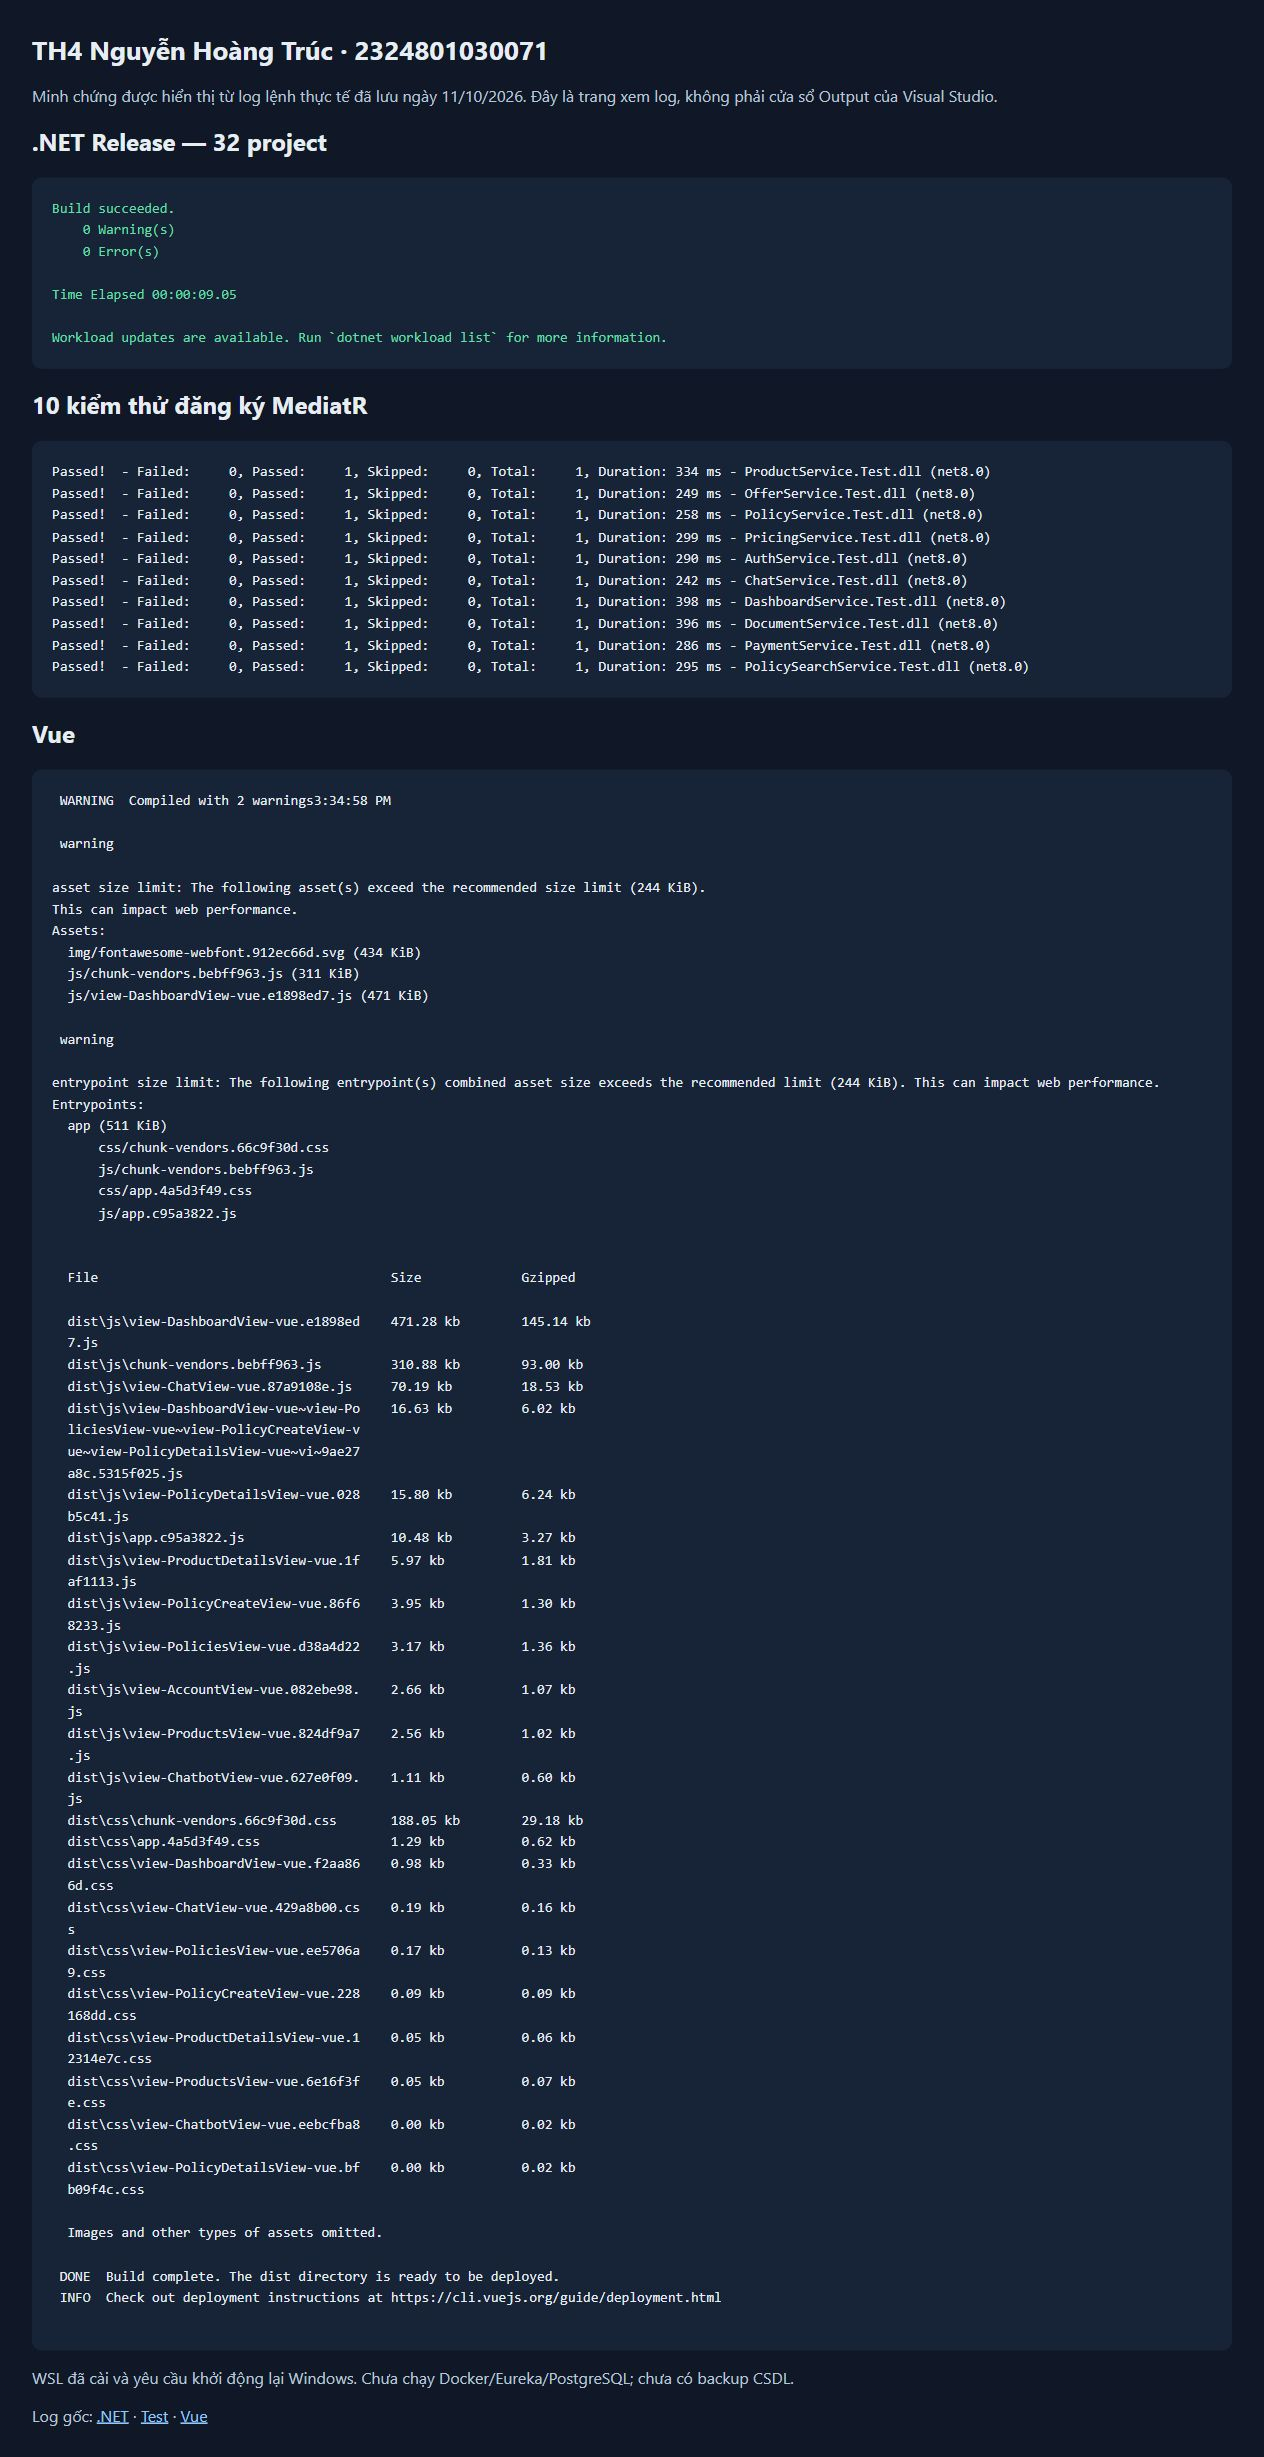
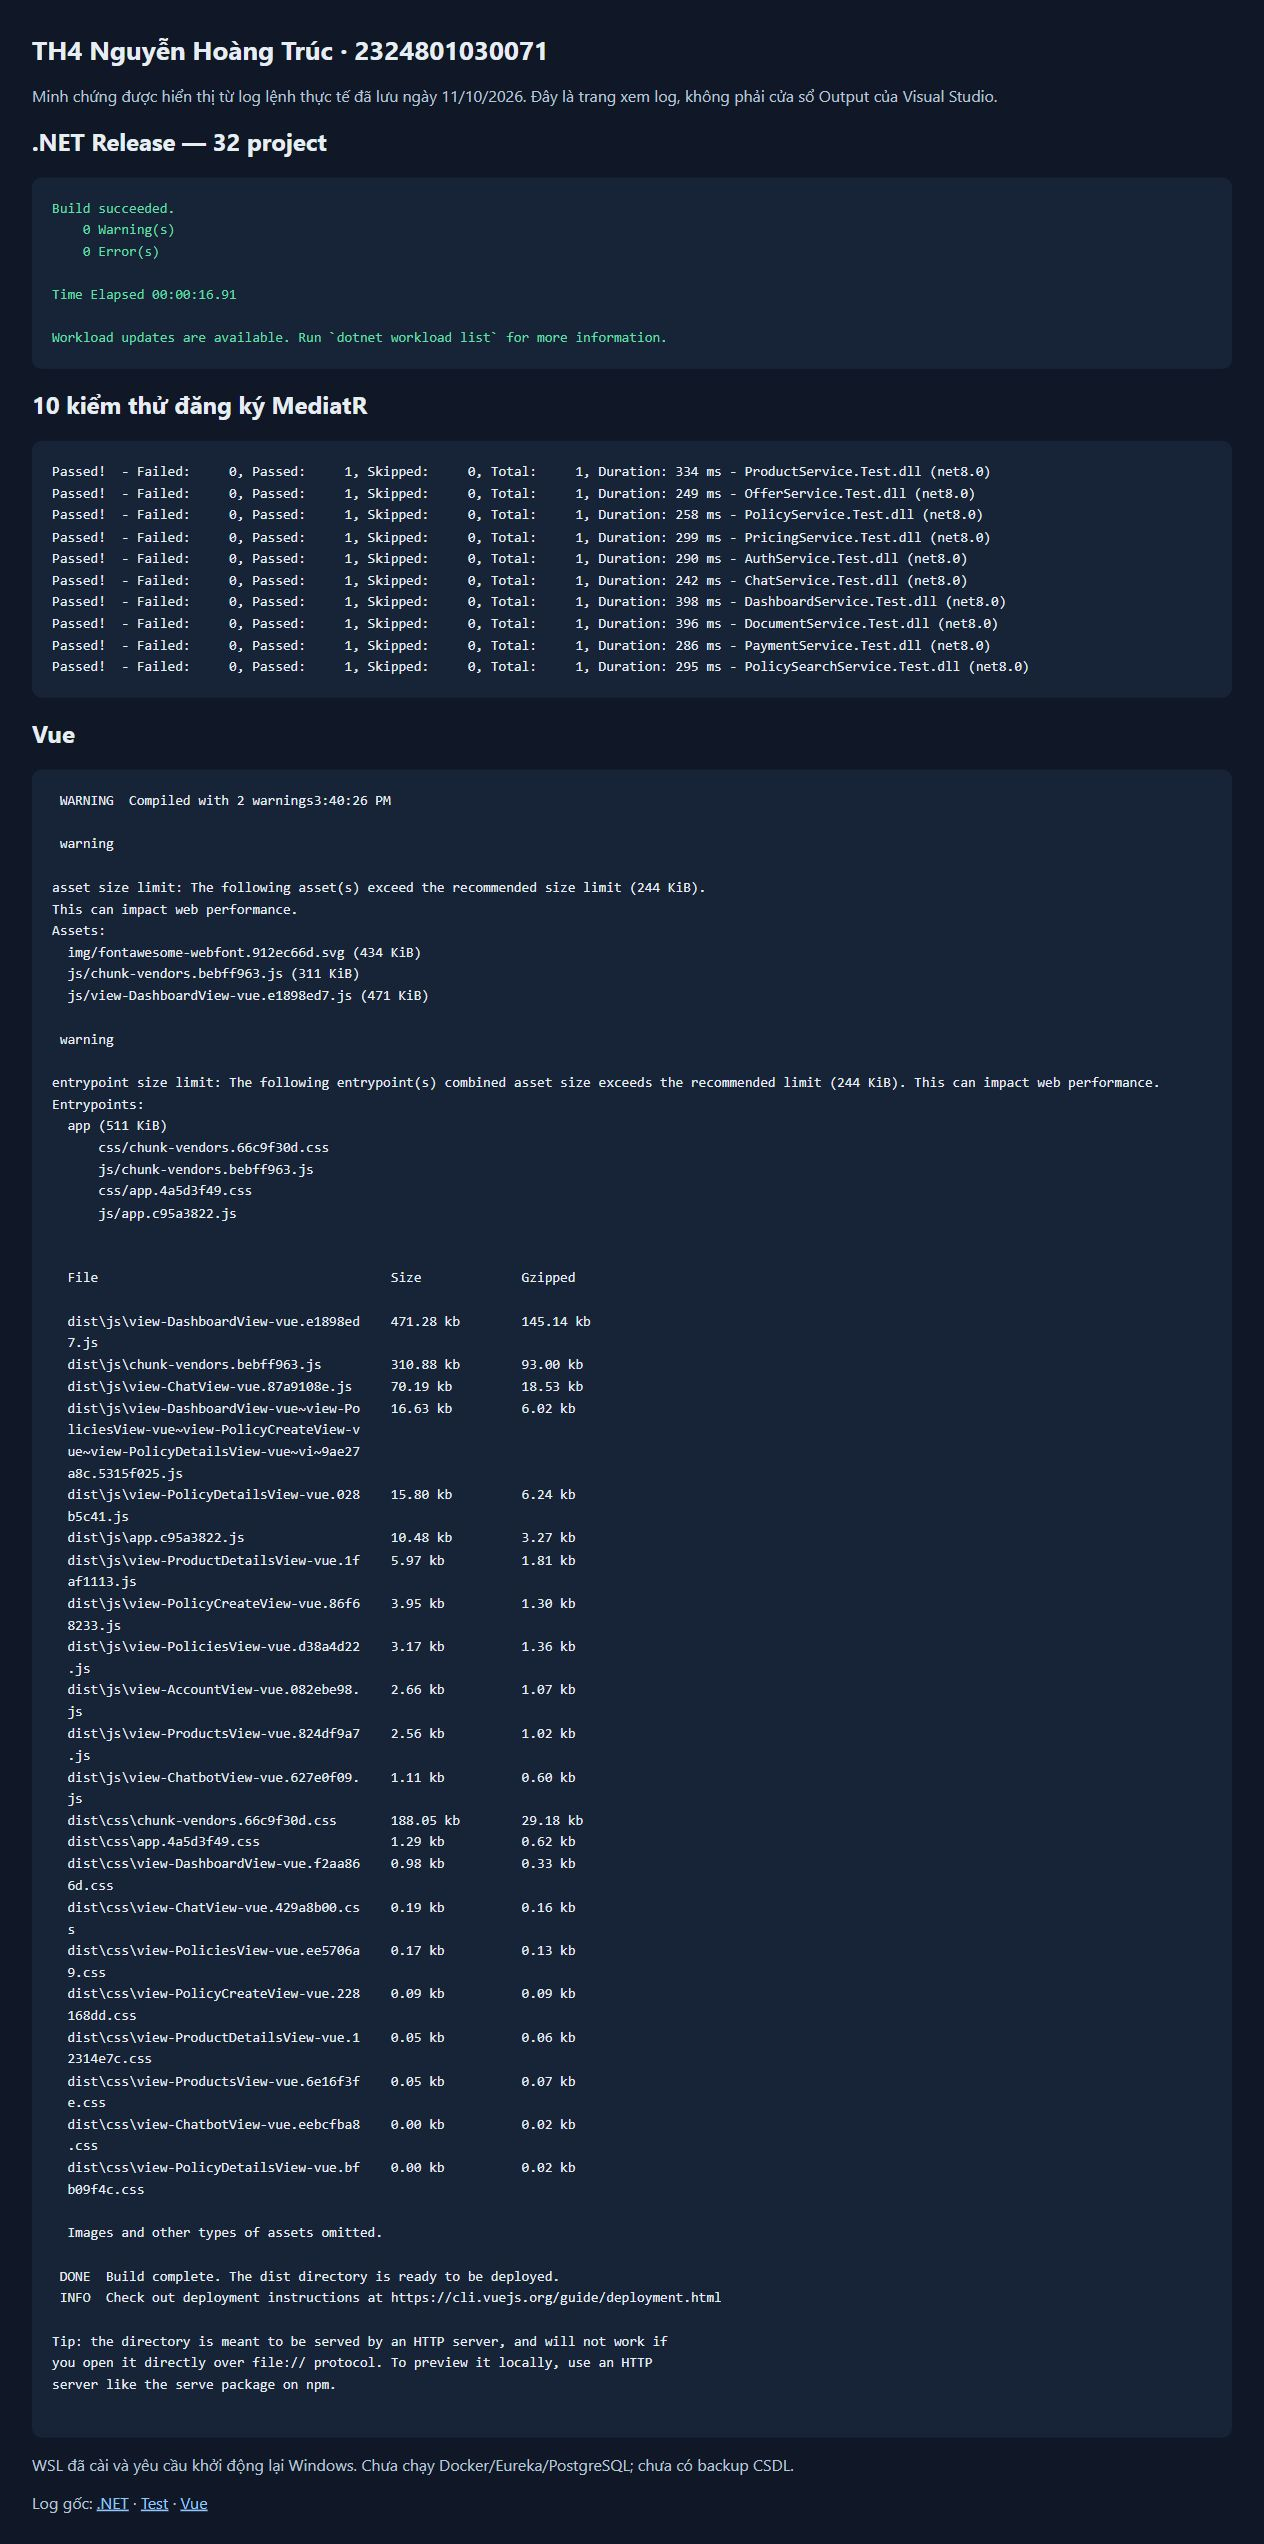
Cập nhật cấu hình TH4

diff --git a/artifacts/build-report.html b/artifacts/build-report.html
@@ -6,7 +6,7 @@
     0 Warning(s)
     0 Error(s)
 
-Time Elapsed 00:00:09.05
+Time Elapsed 00:00:16.91
 
 Workload updates are available. Run `dotnet workload list` for more information.
 </pre>
@@ -20,7 +20,7 @@ Passed!  - Failed:     0, Passed:     1, Skipped:     0, Total:     1, Duration:
 Passed!  - Failed:     0, Passed:     1, Skipped:     0, Total:     1, Duration: 396 ms - DocumentService.Test.dll (net8.0)
 Passed!  - Failed:     0, Passed:     1, Skipped:     0, Total:     1, Duration: 286 ms - PaymentService.Test.dll (net8.0)
 Passed!  - Failed:     0, Passed:     1, Skipped:     0, Total:     1, Duration: 295 ms - PolicySearchService.Test.dll (net8.0)</pre>
-<h2>Vue</h2><pre> WARNING  Compiled with 2 warnings3:34:58 PM
+<h2>Vue</h2><pre> WARNING  Compiled with 2 warnings3:40:26 PM
 
  warning  
 
@@ -91,6 +91,10 @@ Entrypoints:
  DONE  Build complete. The dist directory is ready to be deployed.
  INFO  Check out deployment instructions at https://cli.vuejs.org/guide/deployment.html
       
+Tip: the directory is meant to be served by an HTTP server, and will not work if
+you open it directly over file:// protocol. To preview it locally, use an HTTP
+server like the serve package on npm.
+
 </pre>
 <p>WSL đã cài và yêu cầu khởi động lại Windows. Chưa chạy Docker/Eureka/PostgreSQL; chưa có backup CSDL.</p>
 <p>Log gốc: <a href="build-dotnet.log">.NET</a> · <a href="test.log">Test</a> · <a href="build-web.log">Vue</a></p>

diff --git a/README.md b/README.md
@@ -34,9 +34,11 @@ Script build toàn bộ .NET, chạy test và build Vue; log được lưu vào 
 
 MediatR 12.4.1 được đăng ký qua `AddMediatR(config => config.RegisterServicesFromAssemblyContaining<Program>())`, thay cho cú pháp Startup cũ trong đề. Gateway dùng Steeltoe Eureka 3.4.0 để xử lý cảnh báo NuGet của bản 3.2.7: https://github.com/advisories/GHSA-j8ph-6fxj-g533 .
 
-Vue đổi node-sass sang Dart Sass, dùng đường dẫn Node trực tiếp để hỗ trợ thư mục `TH_KT&TKPM`, tắt worker pool cũ và dùng wrapper chờ build promise hoàn tất trước khi thoát trên Node mới. Không tắt cảnh báo kích thước bundle.
+Vue đổi node-sass sang Dart Sass, dùng đường dẫn Node trực tiếp để hỗ trợ thư mục `TH_KT&TKPM`, tắt worker pool cũ và dùng wrapper chờ build promise hoàn tất trước khi thoát trên Node mới. `.npmrc` bật `legacy-peer-deps` cho các plugin Vue CLI 3; đã kiểm tra cài mới bằng `npm ci` rồi build thành công. Không tắt cảnh báo kích thước bundle.
 
 ## Hạ tầng và CSDL
+
+GitHub Desktop 3.6.7 đã được cài thành công qua winget từ installer chính thức. Để mở repo trong ứng dụng, dùng File → Add local repository và chọn thư mục chứa solution này. Source đã được đẩy bằng Git lên nhánh `main` của repository ở đầu trang; quyền cộng tác của giảng viên chưa được xác nhận.
 
 Docker Desktop đã có trên máy. Lệnh cài WSL đã báo thành công nhưng yêu cầu **khởi động lại Windows** mới có hiệu lực. Nếu Docker vẫn báo lỗi sau khi khởi động lại, mở PowerShell với quyền Administrator và kiểm tra `wsl --status`, `wsl --version`; cập nhật bằng `wsl --update` nếu cần. Không xóa/reset dữ liệu Docker.
 
